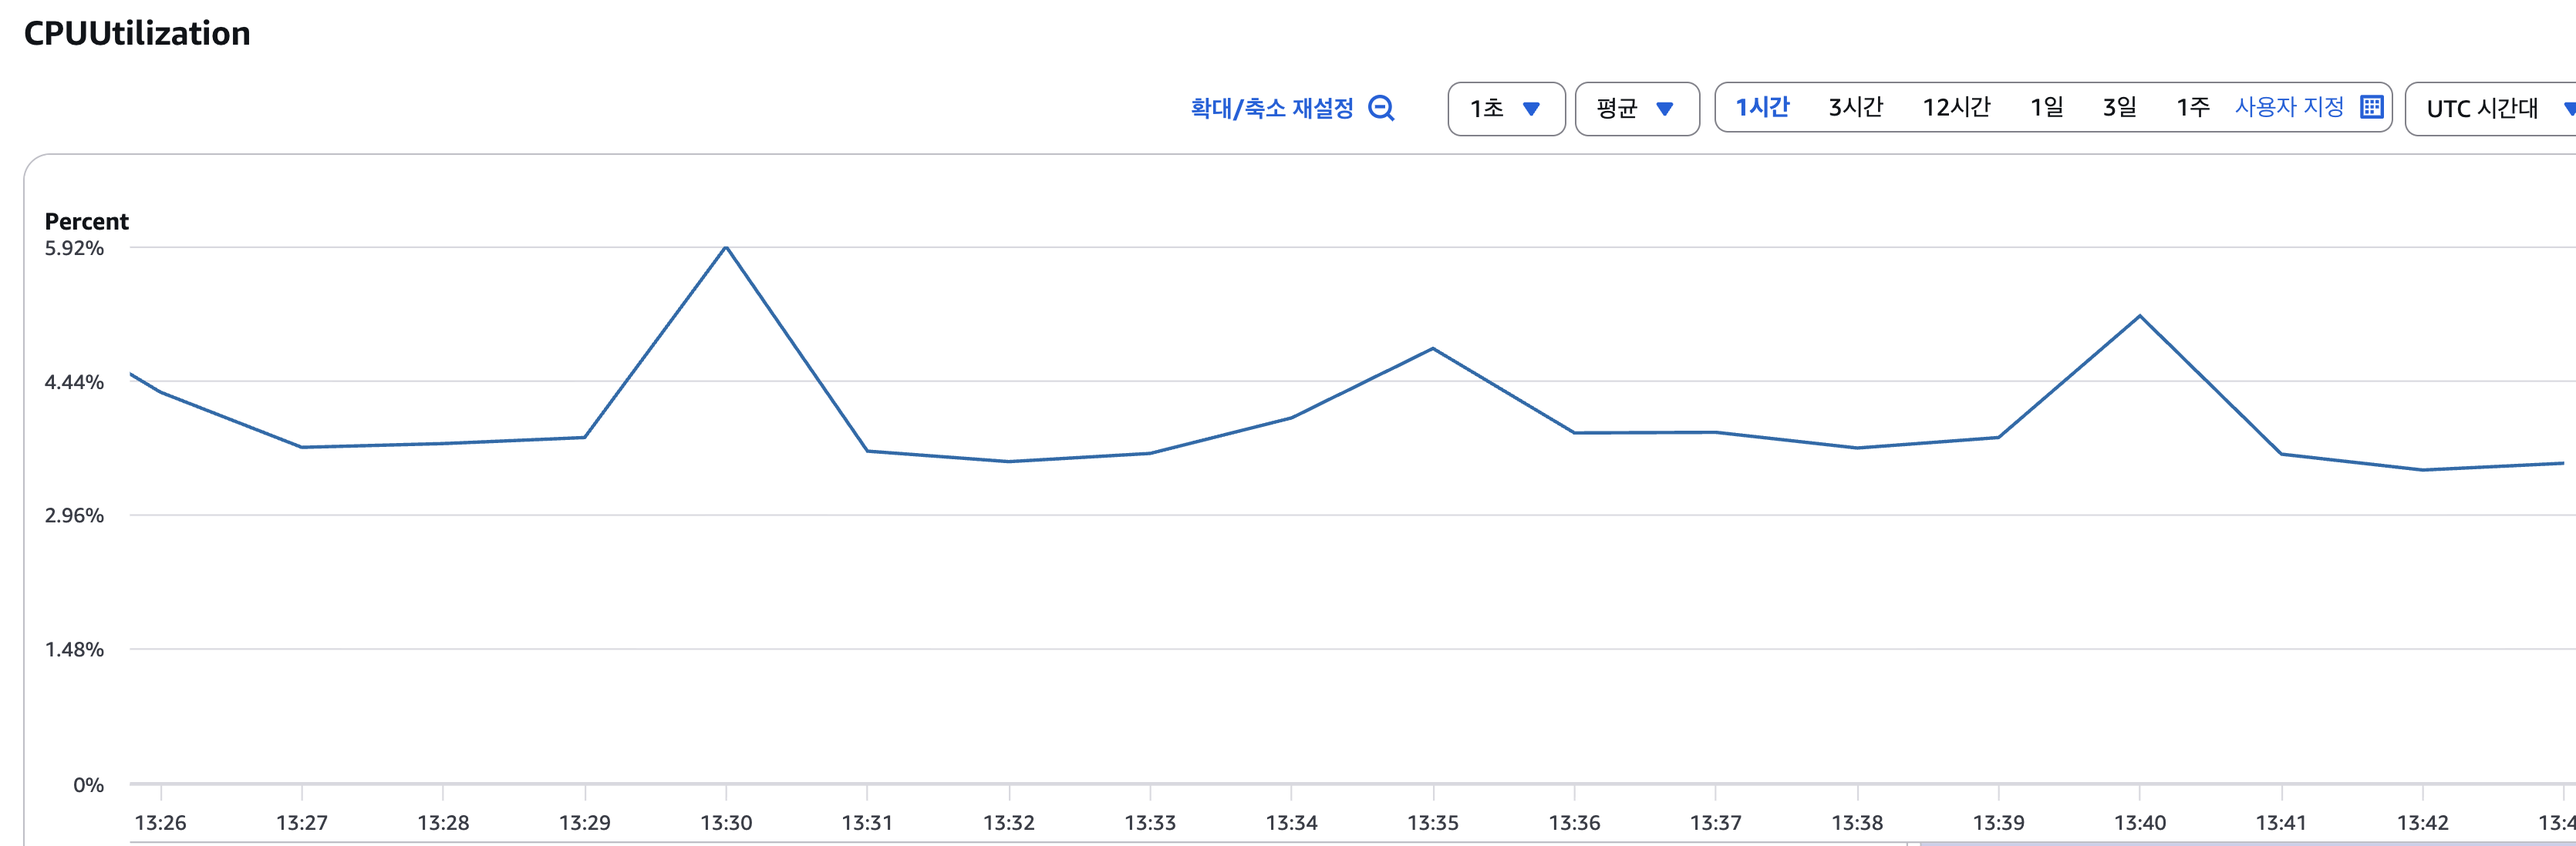
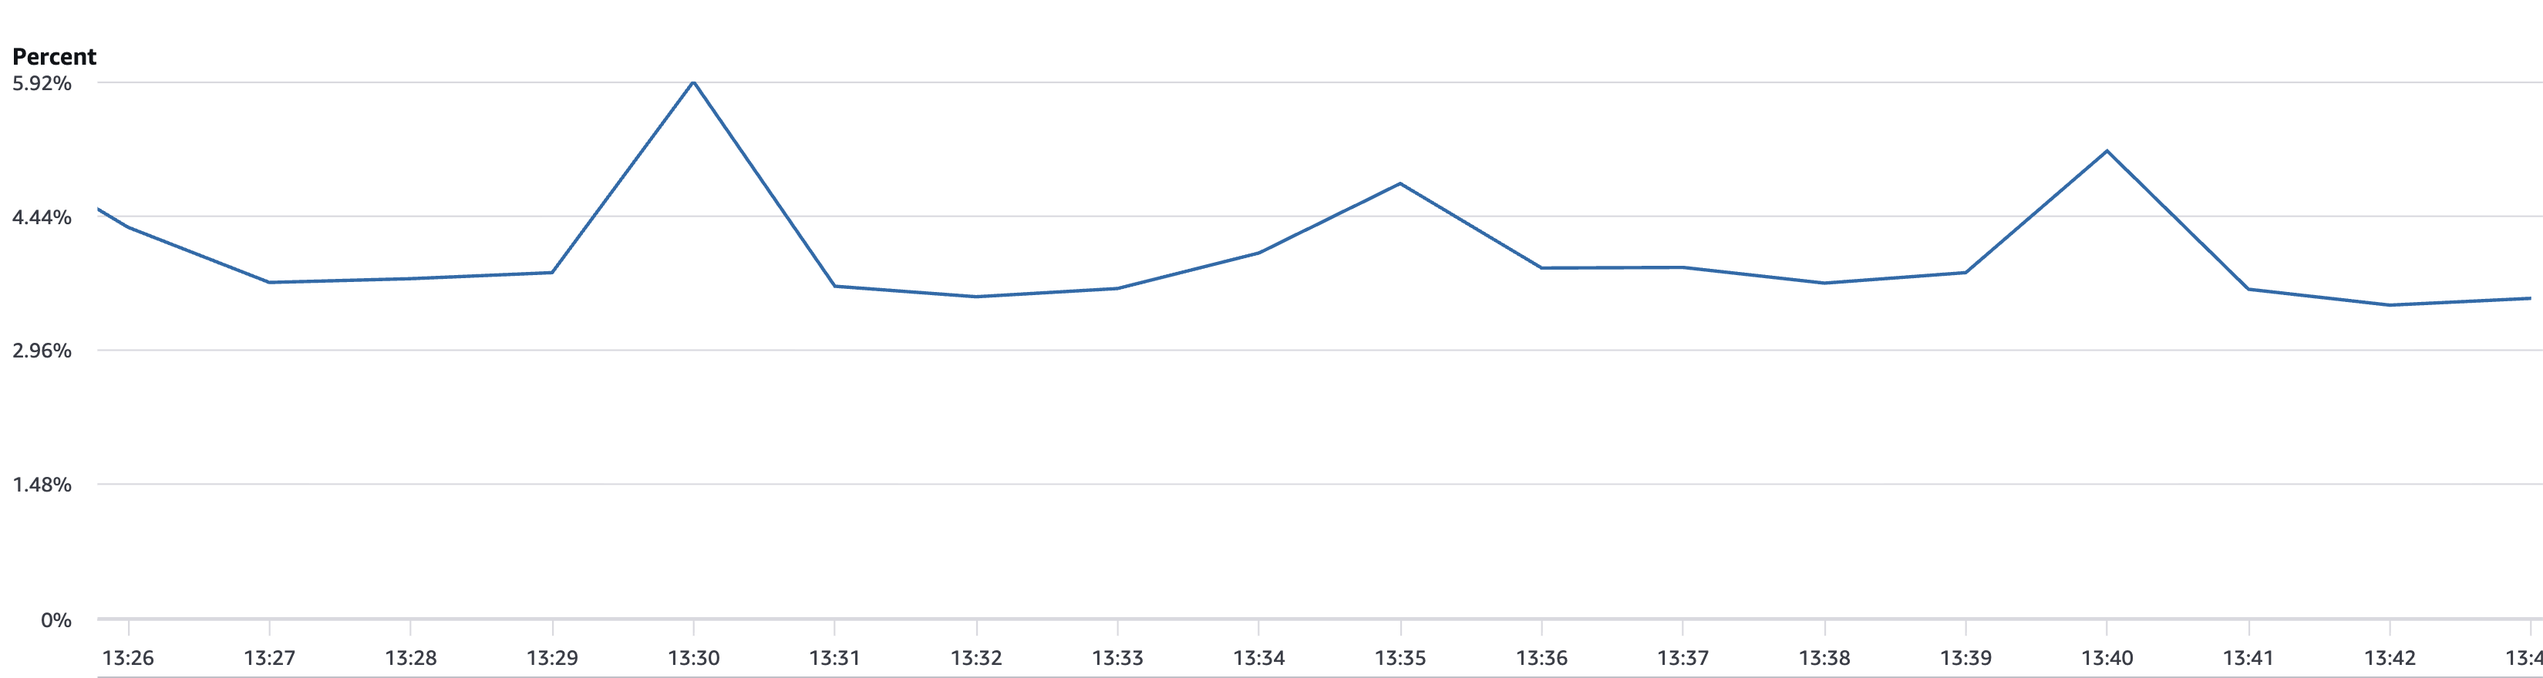
chore : star 내용 수정

diff --git a/src/main/resources/static/index.html b/src/main/resources/static/index.html
@@ -388,7 +388,7 @@
                                 <div style="display: flex; flex-direction: column; gap: 16px; margin-top: 10px;">
                                     <div>
                                         <strong style="font-size: 0.95em; color: #333; display: block; margin-bottom: 6px;">레이아웃 성공률 100% 달성</strong>
-                                        <p style="margin: 0; font-size: 0.9em; color: #555; line-height: 1.5;">비표준 해상도 및 파노라마 형태의 긴 이미지 ㅏㅍ일도 원본 왜곡이나 화질 저하없이 변환</p>
+                                        <p style="margin: 0; font-size: 0.9em; color: #555; line-height: 1.5;">비표준 해상도 및 파노라마 형태의 긴 이미지 파일도 원본 왜곡이나 화질 저하없이 변환</p>
                                     </div>
                                     <div>
                                         <strong style="font-size: 0.95em; color: #333; display: block; margin-bottom: 6px;">안정적인 힙 메모리 유자</strong>
@@ -406,8 +406,8 @@
             <button class="accordion-header" onclick="toggleAccordion('acc-3'); const acc = document.getElementById('acc-3'); acc.querySelectorAll('.inner-accordion-content').forEach(el => el.style.display = 'none'); acc.querySelectorAll('.inner-arrow-icon').forEach(icon => icon.style.transform = 'rotate(0deg)');">
                 <div class="header-main">
                     <span class="card-index">03</span>
-                    <h3>Change Data Capture(CDC) 를 활용한 Publisher 구성</h3>
-                    <p>무분별한 HTTP Polling Scheduling 을 바이너리 로그 감지 기반의 Debezium 으로 전환하여 데이터베이스 CPU 사용률, 디스크 I/O 비용을 절감했습니다.</p>
+                    <h3>Debezium 을 활용한 Publisher 구성</h3>
+                    <p>무분별한 HTTP Polling Scheduling 을 바이너리 로그 감지 기반의 Debezium 으로 전환하여 데이터베이스 CPU 최적화, 디스크 I/O 부하 제거했습니다.</p>
                 </div>
                 <div class="scan-results">
                     <span>데이터베이스 CPU 사용률, 디스크 I/O 절감</span>
@@ -436,23 +436,7 @@
                                         <div>
                                             <strong style="font-size: 0.95em; color: #333; display: block; margin-bottom: 6px;">데이터베이스 부하</strong>
                                             <p style="margin: 0; font-size: 0.9em; color: #555; line-height: 1.6; word-break: keep-all;">주기적인 HTTP Polling 스케줄러 작업이 테이블을 무분별하게 조회하고 있으며, 데이터가 누적될수록 CPU 부하량 증가 및 디스크 I/O 자원 낭비 발생</p>
-                                            <p style="margin: 0; font-size: 0.9em; color: #555; line-height: 1.6; word-break: keep-all;">(처리 성능을 중점으로 25만 건의 데이터 적재 후 검증)</p>
                                         </div>
-                                    </div>
-
-                                    <div style="flex: 1 1 calc(50% - 12px); min-width: 300px; height: 180px; position: relative; overflow: hidden; border-radius: 8px; border: 1px solid #ffe2e2; background-color: #fff; box-shadow: 0 2px 4px rgba(0,0,0,0.02);">
-                                        <div id="imageTrack-cdc-situation" data-current-index="0" style="display: flex; height: 100%; transition: transform 0.4s ease-in-out; width: 200%;">
-                                            <img src="/images/sql.png" alt="sql" onclick="window.open(this.src, '_blank')" style="width: 50%; height: 100%; object-fit: contain; display: block; cursor: zoom-in; background-color: #fff;" title="클릭하면 원본 이미지를 새 창으로 봅니다." />
-                                            <img src="/images/polling.png" alt="기존 스케줄링 방식의 문제점" onclick="window.open(this.src, '_blank')" style="width: 50%; height: 100%; object-fit: contain; display: block; cursor: zoom-in; background-color: #fff;" title="클릭하면 원본 이미지를 새 창으로 봅니다." />
-                                        </div>
-
-                                        <button onclick="const track = document.getElementById('imageTrack-cdc-situation'); let idx = parseInt(track.getAttribute('data-current-index')); idx = (idx - 1 + 2) % 2; track.setAttribute('data-current-index', idx); track.style.transform = `translateX(-${idx * 50}%)`;" style="position: absolute; left: 12px; top: 50%; transform: translateY(-50%); background: rgba(255, 255, 255, 0.4); border: 1px solid rgba(255, 255, 255, 0.2); width: 36px; height: 36px; border-radius: 50%; cursor: pointer; display: flex; justify-content: center; align-items: center; box-shadow: 0 4px 12px rgba(0,0,0,0.08); color: rgba(0, 0, 0, 0.6); z-index: 2; transition: background 0.2s, color 0.2s;" onmouseover="this.style.background='rgba(255,255,255,0.8)'; this.style.color='rgba(0,0,0,0.9)'" onmouseout="this.style.background='rgba(255, 255, 255, 0.4)'; this.style.color='rgba(0, 0, 0, 0.6)'">
-                                            <i class="fas fa-chevron-left" style="font-size: 14px;"></i>
-                                        </button>
-
-                                        <button onclick="const track = document.getElementById('imageTrack-cdc-situation'); let idx = parseInt(track.getAttribute('data-current-index')); idx = (idx + 1) % 2; track.setAttribute('data-current-index', idx); track.style.transform = `translateX(-${idx * 50}%)`;" style="position: absolute; right: 12px; top: 50%; transform: translateY(-50%); background: rgba(255, 255, 255, 0.4); border: 1px solid rgba(255, 255, 255, 0.2); width: 36px; height: 36px; border-radius: 50%; cursor: pointer; display: flex; justify-content: center; align-items: center; box-shadow: 0 4px 12px rgba(0,0,0,0.08); color: rgba(0, 0, 0, 0.6); z-index: 2; transition: background 0.2s, color 0.2s;" onmouseover="this.style.background='rgba(255,255,255,0.8)'; this.style.color='rgba(0,0,0,0.9)'" onmouseout="this.style.background='rgba(255, 255, 255, 0.4)'; this.style.color='rgba(0, 0, 0, 0.6)'">
-                                            <i class="fas fa-chevron-right" style="font-size: 14px;"></i>
-                                        </button>
                                     </div>
 
                                 </div>
@@ -504,12 +488,6 @@
                                             <p style="margin: 0; font-size: 0.9em; color: #555; line-height: 1.6; word-break: keep-all;">독립 서버로 구성하여 확장에 용이</p>
                                         </div>
                                     </div>
-
-                                    <div style="flex: 1 1 calc(50% - 12px); min-width: 300px; height: 320px; position: relative; overflow: hidden; border-radius: 8px; border: 1px solid #e2effe; background-color: #fff; box-shadow: 0 2px 4px rgba(0,0,0,0.02);">
-                                        <div id="imageTrack-cdc-action" data-current-index="0" style="display: flex; height: 100%; transition: transform 0.4s ease-in-out; width: 200%;">
-                                            <img src="/images/debezium_package.png" alt="Debezium CDC 구조도" onclick="window.open(this.src, '_blank')" style="width: 50%; height: 100%; object-fit: contain; display: block; cursor: zoom-in; background-color: #fff;" />
-                                        </div>
-                                    </div>
                                 </div>
                             </div>
                         </div>
@@ -529,7 +507,8 @@
                                     <div style="flex: 1 1 calc(50% - 12px); min-width: 300px; display: flex; flex-direction: column; gap: 24px;">
                                         <div>
                                             <strong style="font-size: 0.95em; color: #333; display: block; margin-bottom: 6px;">성능 최적화 및 비용 절감</strong>
-                                            <p style="margin: 0; font-size: 0.9em; color: #555; line-height: 1.6; word-break: keep-all;">데이터베이스의 바이너리 로그를 실시간으로 캡처하여 변경 감지 후 즉시 메시지큐로 이벤트 메시지를 발행하여 데이터베이스를 점유하던 CPU 사용률, 디스크 I/O 비용을 80% 절감</p>
+                                            <p style="margin: 0; font-size: 0.9em; color: #555; line-height: 1.6; word-break: keep-all;">데이터베이스의 바이너리 로그를 실시간으로 캡처하여 변경 감지 후 즉시 메시지큐로 이벤트 메시지를 발행하여 데이터베이스를 점유하던 CPU 사용률 80% 절감 및 디스크 I/O 부하 제거</p>
+                                            <p style="margin: 0; font-size: 0.9em; color: #555; line-height: 1.6; word-break: keep-all;">(처리 성능을 중점으로 25만 건의 데이터 적재 후 검증)</p>
                                         </div>
                                         <div>
                                             <strong style="font-size: 0.95em; color: #333; display: block; margin-bottom: 6px;">이벤트 기반 구조에 최적화된 미들웨어 역할 수행하며 장애 전파 격리</strong>
@@ -539,7 +518,7 @@
 
                                     <div style="flex: 1 1 calc(50% - 12px); min-width: 300px; position: relative; overflow: hidden; border-radius: 8px; border: 1px solid #e2eee2; background-color: #fff; box-shadow: 0 2px 4px rgba(0,0,0,0.02);">
                                         <div id="imageTrack-cdc-result" data-current-index="0" style="display: flex; transition: transform 0.4s ease-in-out; width: 200%;">
-                                            <img src="/images/mq.png" alt="메시지 정상 적재" onclick="window.open(this.src, '_blank')" style="width: 50%; height: auto; display: block; cursor: zoom-in;" title="클릭하면 원본 이미지를 새 창으로 봅니다." />
+                                            <img src="/images/polling.png" alt="메시지 정상 적재" onclick="window.open(this.src, '_blank')" style="width: 50%; height: auto; display: block; cursor: zoom-in;" title="클릭하면 원본 이미지를 새 창으로 봅니다." />
                                             <img src="/images/after.png" alt="CPU 현황" onclick="window.open(this.src, '_blank')" style="width: 50%; height: auto; display: block; cursor: zoom-in;" title="클릭하면 원본 이미지를 새 창으로 봅니다." />
                                         </div>
                                         <button onclick="const track = document.getElementById('imageTrack-cdc-result'); let idx = parseInt(track.getAttribute('data-current-index')); idx = (idx - 1 + 2) % 2; track.setAttribute('data-current-index', idx); track.style.transform = `translateX(-${idx * 50}%)`;" style="position: absolute; left: 12px; top: 50%; transform: translateY(-50%); background: rgba(255, 255, 255, 0.4); border: 1px solid rgba(255, 255, 255, 0.2); width: 36px; height: 36px; border-radius: 50%; cursor: pointer; display: flex; justify-content: center; align-items: center; box-shadow: 0 4px 12px rgba(0,0,0,0.08); color: rgba(0, 0, 0, 0.6); z-index: 2; transition: background 0.2s, color 0.2s;" onmouseover="this.style.background='rgba(255,255,255,0.8)'; this.style.color='rgba(0,0,0,0.9)'" onmouseout="this.style.background='rgba(255, 255, 255, 0.4)'; this.style.color='rgba(0, 0, 0, 0.6)'">
@@ -652,24 +631,6 @@
                                             <p style="margin: 0; font-size: 0.9em; color: #555; line-height: 1.6; word-break: keep-all;">rampTo 를 통해 서서히 트래픽을 증가, 랜덤한 UUID 생성, 서비스 기준 최대 크기의 테스트 이미지 파일 바인딩 처리</p>
                                         </div>
                                     </div>
-
-                                    <div style="flex: 1 1 calc(50% - 12px); min-width: 300px; height: 320px; position: relative; overflow: hidden; border-radius: 8px; border: 1px solid #e2effe; background-color: #fff; box-shadow: 0 2px 4px rgba(0,0,0,0.02);">
-
-                                        <div id="imageTrack-action" data-current-index="0" style="display: flex; height: 100%; transition: transform 0.4s ease-in-out; width: 300%;">
-                                            <img src="/images/monitoring.png" alt="프로메테우스 메트릭 수집 구조" onclick="window.open(this.src, '_blank')" style="width: 33.333%; height: 100%; object-fit: contain; display: block; cursor: zoom-in; background-color: #fff;" />
-                                            <img src="/images/phase.png" alt="그라파나 대시보드" onclick="window.open(this.src, '_blank')" style="width: 33.333%; height: 100%; object-fit: contain; display: block; cursor: zoom-in; background-color: #fff;" />
-                                            <img src="/images/scenarios.png" alt="아틸러리 부하테스트 결과" onclick="window.open(this.src, '_blank')" style="width: 33.333%; height: 100%; object-fit: contain; display: block; cursor: zoom-in; background-color: #fff;" />
-                                        </div>
-
-                                        <button onclick="const track = document.getElementById('imageTrack-action'); let idx = parseInt(track.getAttribute('data-current-index')); idx = (idx - 1 + 3) % 3; track.setAttribute('data-current-index', idx); track.style.transform = `translateX(-${idx * 33.333}%)`;" style="position: absolute; left: 12px; top: 50%; transform: translateY(-50%); background: rgba(255, 255, 255, 0.6); border: 1px solid rgba(0, 0, 0, 0.1); width: 36px; height: 36px; border-radius: 50%; cursor: pointer; display: flex; justify-content: center; align-items: center; box-shadow: 0 4px 12px rgba(0,0,0,0.08); color: rgba(0, 0, 0, 0.6); z-index: 2; transition: background 0.2s, color 0.2s;" onmouseover="this.style.background='rgba(255,255,255,0.9)'; this.style.color='rgba(0,0,0,0.9)'" onmouseout="this.style.background='rgba(255, 255, 255, 0.6)'; this.style.color='rgba(0, 0, 0, 0.6)'">
-                                            <i class="fas fa-chevron-left" style="font-size: 14px;"></i>
-                                        </button>
-
-                                        <button onclick="const track = document.getElementById('imageTrack-action'); let idx = parseInt(track.getAttribute('data-current-index')); idx = (idx + 1) % 3; track.setAttribute('data-current-index', idx); track.style.transform = `translateX(-${idx * 33.333}%)`;" style="position: absolute; right: 12px; top: 50%; transform: translateY(-50%); background: rgba(255, 255, 255, 0.6); border: 1px solid rgba(0, 0, 0, 0.1); width: 36px; height: 36px; border-radius: 50%; cursor: pointer; display: flex; justify-content: center; align-items: center; box-shadow: 0 4px 12px rgba(0,0,0,0.08); color: rgba(0, 0, 0, 0.6); z-index: 2; transition: background 0.2s, color 0.2s;" onmouseover="this.style.background='rgba(255,255,255,0.9)'; this.style.color='rgba(0,0,0,0.9)'" onmouseout="this.style.background='rgba(255, 255, 255, 0.6)'; this.style.color='rgba(0, 0, 0, 0.6)'">
-                                            <i class="fas fa-chevron-right" style="font-size: 14px;"></i>
-                                        </button>
-                                    </div>
-
                                 </div>
                             </div>
                         </div>
@@ -706,10 +667,12 @@
                                     </div>
 
                                     <div style="flex: 1 1 calc(50% - 12px); min-width: 300px; position: relative; overflow: hidden; border-radius: 8px; border: 1px solid #e2eee2; background-color: #fff; box-shadow: 0 2px 4px rgba(0,0,0,0.02);">
-                                        <div id="imageTrack" style="display: flex; transition: transform 0.4s ease-in-out; width: 200%;">
-                                            <img src="/images/grafana.png" alt="S3 및 RabbitMQ 모니터링 그래프" onclick="window.open(this.src, '_blank')" style="width: 50%; height: auto; display: block; cursor: zoom-in;" title="클릭하면 원본 이미지를 새 창으로 봅니다." />
-                                            <img src="/images/artillery.png" alt="부하테스트" onclick="window.open(this.src, '_blank')" style="width: 50%; height: auto; display: block; cursor: zoom-in;" title="클릭하면 원본 이미지를 새 창으로 봅니다." />
+                                        <div id="imageTrack" style="display: flex; transition: transform 0.4s ease-in-out; width: 300%;">
+                                            <img src="/images/monitoring.png" alt="프로메테우스 메트릭 수집 구조" onclick="window.open(this.src, '_blank')" style="width: 33.333%; flex-shrink: 0; height: auto; display: block; cursor: zoom-in;" title="클릭하면 원본 이미지를 새 창으로 봅니다." />
+                                            <img src="/images/grafana.png" alt="S3 및 RabbitMQ 모니터링 그래프" onclick="window.open(this.src, '_blank')" style="width: 33.333%; flex-shrink: 0; height: auto; display: block; cursor: zoom-in;" title="클릭하면 원본 이미지를 새 창으로 봅니다." />
+                                            <img src="/images/artillery.png" alt="부하테스트 결과" onclick="window.open(this.src, '_blank')" style="width: 33.333%; flex-shrink: 0; height: auto; display: block; cursor: zoom-in;" title="클릭하면 원본 이미지를 새 창으로 봅니다." />
                                         </div>
+
                                         <button onclick="changeSlide(-1)" style="position: absolute; left: 12px; top: 50%; transform: translateY(-50%); background: rgba(255, 255, 255, 0.4); border: 1px solid rgba(255, 255, 255, 0.2); width: 36px; height: 36px; border-radius: 50%; cursor: pointer; display: flex; justify-content: center; align-items: center; box-shadow: 0 4px 12px rgba(0,0,0,0.08); color: rgba(0, 0, 0, 0.6); z-index: 2; transition: background 0.2s, color 0.2s;" onmouseover="this.style.background='rgba(255,255,255,0.8)'; this.style.color='rgba(0,0,0,0.9)'" onmouseout="this.style.background='rgba(255, 255, 255, 0.4)'; this.style.color='rgba(0, 0, 0, 0.6)'">
                                             <i class="fas fa-chevron-left" style="font-size: 14px;"></i>
                                         </button>
@@ -717,6 +680,8 @@
                                             <i class="fas fa-chevron-right" style="font-size: 14px;"></i>
                                         </button>
                                     </div>
+
+
                                 </div>
                             </div>
                         </div>

diff --git a/src/main/resources/static/js/star.js b/src/main/resources/static/js/star.js
@@ -1,19 +1,20 @@
-let currentSlideIdx = 0;
+let currentSlide = 0;
+const totalSlides = 3;
 
 function changeSlide(direction) {
-    const track = document.getElementById('imageTrack');
-    const totalSlides = 2; // 총 이미지 개수
+    currentSlide += direction;
 
-    // 안전 장치: 아코디언이 닫혀있거나 아직 이미지가 안 불려왔을 때 에러 방지
-    if (!track) return;
-
-    currentSlideIdx += direction;
-
-    if (currentSlideIdx >= totalSlides) {
-        currentSlideIdx = 0;
-    } else if (currentSlideIdx < 0) {
-        currentSlideIdx = totalSlides - 1;
+    // 1. 마지막 이미지에서 '다음' 누르면 -> 처음(0)으로 이동
+    if (currentSlide >= totalSlides) {
+        currentSlide = 0;
+    }
+    // 2. 첫 이미지에서 '이전' 누르면 -> 마지막으로 이동
+    else if (currentSlide < 0) {
+        currentSlide = totalSlides - 1;
     }
 
-    track.style.transform = `translateX(-${currentSlideIdx * 50}%)`;
+    const imageTrack = document.getElementById('imageTrack');
+
+    // HTML에서 트랙 너비가 300%이므로, 33.3333%씩 이동합니다.
+    imageTrack.style.transform = `translateX(-${currentSlide * 33.3333}%)`;
 }
